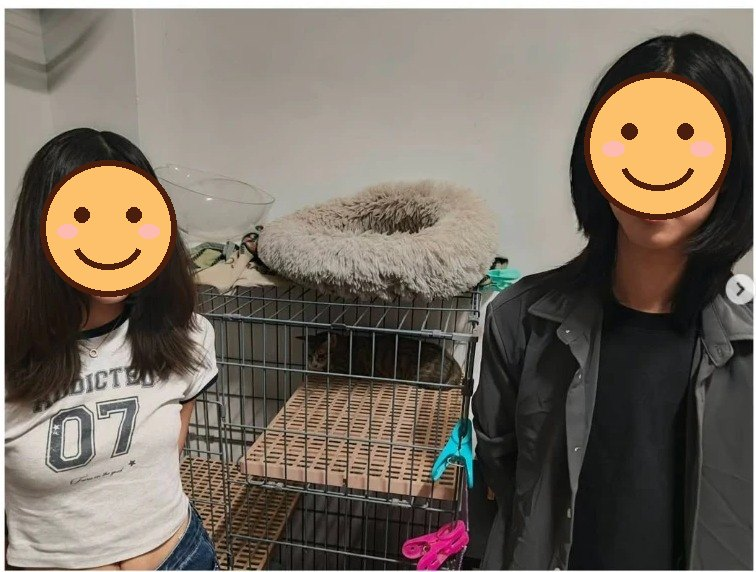
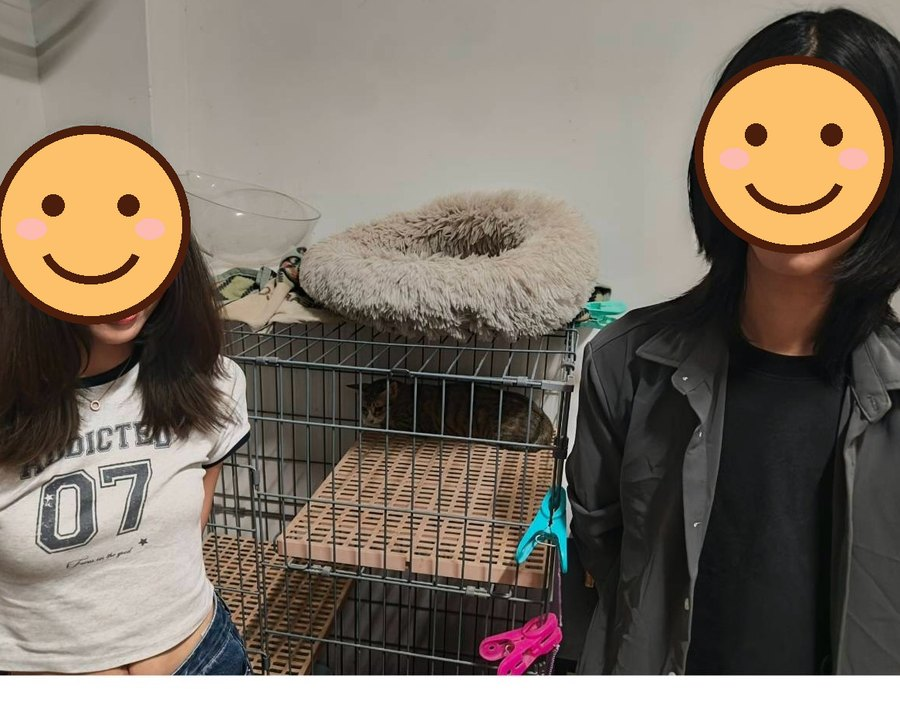
小曙換上 IG 原圖，並確認兩篇貼文的網址對應無誤

diff --git a/data/cats.js b/data/cats.js
@@ -213,13 +213,13 @@ window.CAT_DATA = {
         "暖編還另外稱她「光速小妞」。平常很不容易捕捉到她的日常身影，常常一秒就飛出鏡頭外；志工為了找她找到心急如焚，回頭又發現她早就靜悄悄地偷溜出來吃乾乾，或是躲在其他大貓身旁——都不知道她什麼時候把貓窩探得這麼熟門熟路。",
         "現在的認養家人跟小曙一樣年紀輕輕。剛開始貓窩有諸多考慮，求學、就業、未來規劃總是變數很多；但懂事的他們理解這份擔憂，多花了不少時間與貓窩認識了解，還常撥空從外縣市大老遠騎車來貓窩陪小曙、跟她熟悉。看過這些互動細節之後，貓窩決定放心讓小曙跟著這對有為青年回家。"
       ],
-      "photos": ["adopted/shu-1.jpg", "adopted/shu-2.jpg"],
-      "photoCaptions": ["", "送養日，跟新家人一起回家"],
+      "photos": ["adopted/shu-1.jpg", "adopted/shu-3.jpg", "adopted/shu-2.jpg"],
+      "photoCaptions": ["", "", "送養日，跟新家人一起回家"],
       "sources": [
         { "label": "新入住（官方 IG）", "url": "https://www.instagram.com/p/DQKIcH7kq8j/" },
         { "label": "送養日（官方 IG）", "url": "https://www.instagram.com/p/DX4eTCvksr2/" }
       ],
-      "confirmed": "⚠ 兩個網址哪篇對哪篇是依 IG 代碼先後推定的，要確認；照片是從截圖裁的，之後換原圖"
+      "confirmed": ""
     },
     {
       "id": "huihui",

diff --git a/tips.html b/tips.html
@@ -111,7 +111,7 @@
   </div>
 </footer>
 
-<script src="data/cats.js?v=ebf753df"></script>
+<script src="data/cats.js?v=df8003e9"></script>
 <script src="data/tips.js?v=2b1c3511"></script>
 <script src="data/games.js?v=b3bd0108"></script>
 <script src="assets/site.js?v=782e212d"></script>

diff --git a/games.html b/games.html
@@ -116,7 +116,7 @@
   </div>
 </footer>
 
-<script src="data/cats.js?v=ebf753df"></script>
+<script src="data/cats.js?v=df8003e9"></script>
 <script src="data/games.js?v=b3bd0108"></script>
 <script src="data/news.js?v=3a98b0ab"></script>
 <script src="data/tips.js?v=2b1c3511"></script>

diff --git a/index.html b/index.html
@@ -195,7 +195,7 @@
   </div>
 </footer>
 
-<script src="data/cats.js?v=ebf753df"></script>
+<script src="data/cats.js?v=df8003e9"></script>
 <script src="data/news.js?v=3a98b0ab"></script>
 <script src="data/tips.js?v=2b1c3511"></script>
 <script src="data/games.js?v=b3bd0108"></script>

diff --git a/news.html b/news.html
@@ -106,7 +106,7 @@
   </div>
 </footer>
 
-<script src="data/cats.js?v=ebf753df"></script>
+<script src="data/cats.js?v=df8003e9"></script>
 <script src="data/news.js?v=3a98b0ab"></script>
 <script src="assets/site.js?v=782e212d"></script>
 </body>

diff --git a/shop.html b/shop.html
@@ -110,7 +110,7 @@
   </div>
 </footer>
 
-<script src="data/cats.js?v=ebf753df"></script>
+<script src="data/cats.js?v=df8003e9"></script>
 <script src="data/shop.js?v=f6c32ecd"></script>
 <script src="assets/site.js?v=782e212d"></script>
 </body>

diff --git a/tip.html b/tip.html
@@ -96,7 +96,7 @@
   </div>
 </footer>
 
-<script src="data/cats.js?v=ebf753df"></script>
+<script src="data/cats.js?v=df8003e9"></script>
 <script src="data/tips.js?v=2b1c3511"></script>
 <script src="assets/site.js?v=782e212d"></script>
 </body>

diff --git a/about.html b/about.html
@@ -135,7 +135,7 @@
   </div>
 </footer>
 
-<script src="data/cats.js?v=ebf753df"></script>
+<script src="data/cats.js?v=df8003e9"></script>
 <script src="assets/site.js?v=782e212d"></script>
 </body>
 </html>

diff --git a/adopt.html b/adopt.html
@@ -164,7 +164,7 @@
   </div>
 </footer>
 
-<script src="data/cats.js?v=ebf753df"></script>
+<script src="data/cats.js?v=df8003e9"></script>
 <script src="assets/site.js?v=782e212d"></script>
 </body>
 </html>

diff --git a/adopted.html b/adopted.html
@@ -113,7 +113,7 @@
   </div>
 </footer>
 
-<script src="data/cats.js?v=ebf753df"></script>
+<script src="data/cats.js?v=df8003e9"></script>
 <script src="assets/site.js?v=782e212d"></script>
 </body>
 </html>

diff --git a/cats.html b/cats.html
@@ -125,7 +125,7 @@
   </div>
 </footer>
 
-<script src="data/cats.js?v=ebf753df"></script>
+<script src="data/cats.js?v=df8003e9"></script>
 <script src="assets/site.js?v=782e212d"></script>
 </body>
 </html>

diff --git a/support.html b/support.html
@@ -118,7 +118,7 @@
   </div>
 </footer>
 
-<script src="data/cats.js?v=ebf753df"></script>
+<script src="data/cats.js?v=df8003e9"></script>
 <script src="assets/site.js?v=782e212d"></script>
 </body>
 </html>
